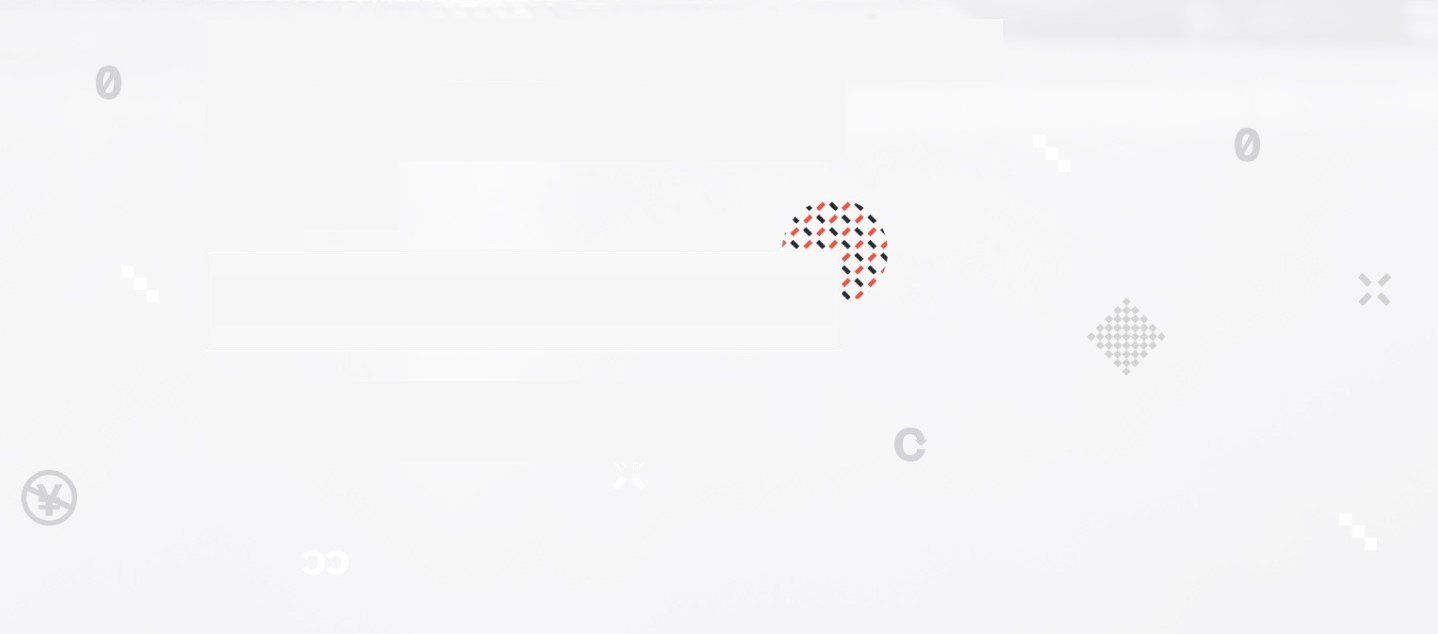
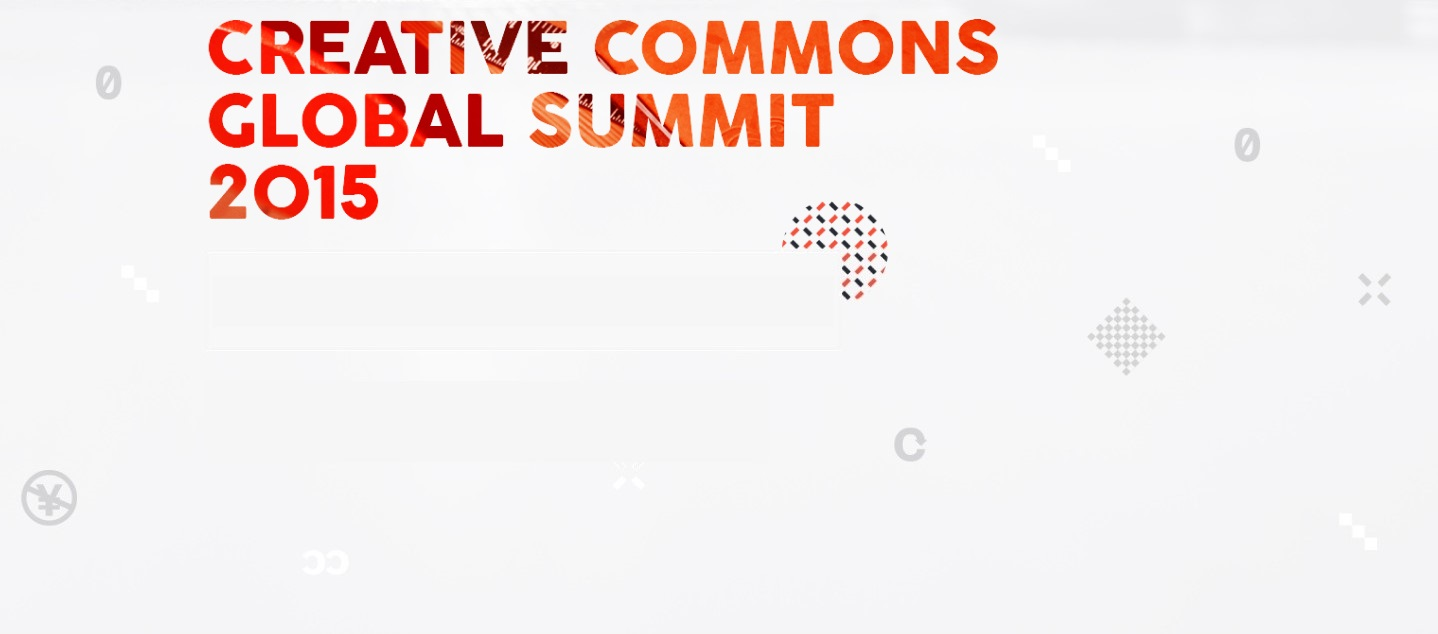
Fixing errors required by review.

Changed region(s): [[0.1224, 0.03, 0.7038, 0.3596]]

diff --git a/css/style.css b/css/style.css
@@ -131,7 +131,7 @@ ul {
 
 #hero-inferior-paraf {
   background: transparent;
-  padding: 0 7vw 4vw 7vw;
+  padding: 38vw 7vw 4vw 7vw;
   margin: 0;
   text-align: start;
   color: #868686;
@@ -398,7 +398,7 @@ ul {
   display: flex;
   flex-direction: column;
   align-items: center;
-  justify-content: space-between;
+  justify-content: flex-start;
 }
 
 .mobile-menu-button-close {
@@ -417,6 +417,7 @@ ul {
   aspect-ratio: 251 / 24;
   width: 90%;
   color: red;
+  margin: 1vw 0 4vw 0;
   font-weight: lighter;
   font-size: 6vw;
   line-height: 5vw;
@@ -469,7 +470,7 @@ ul {
     background: transparent;
     padding: 0;
     margin: 0;
-    margin-left: 71%;
+    margin-left: 69%;
     display: flex;
     flex-direction: row;
     align-items: center;
@@ -479,9 +480,16 @@ ul {
 
   #nav-banner-list > li {
     color: white;
+    margin: 0.25vw;
+    padding: 0 0.5vw 0 0.5vw;
     font-weight: 300;
     font-size: 1.15vw;
     line-height: 112%;
+    white-space: nowrap;
+  }
+
+  #nav-banner-list > li:nth-child(2) {
+    height: 1.3vw;
   }
 
   #icon-face {
@@ -595,13 +603,18 @@ ul {
     font-size: 1.05vw;
   }
 
+  #navigation-list > li:nth-child(1) > a {
+    color: #f07f7e;
+    font-size: 1.05vw;
+  }
+
   #navigation-cccampaing {
     height: 70%;
-    padding: 0 2vw 0 2vw;
+    padding: 0.1vw 2vw 0 2vw;
     margin: 0 0 0 5vw;
-    border: 0.3vw solid green;
+    border: 0.3vw solid red;
     text-align: center;
-    color: green;
+    color: #f07f7e;
     font-weight: 700;
     font-size: 1vw;
     line-height: 270%;
@@ -673,7 +686,7 @@ ul {
 
   #hero-inferior-paraf {
     background: transparent;
-    padding: 6.7vw 44vw 0 15vw;
+    padding: 17.7vw 44vw 0 15vw;
     margin: 0;
     text-align: start;
     color: #868686;
@@ -748,7 +761,7 @@ ul {
     margin: 0.15vw;
     display: flex;
     flex-direction: column;
-    justify-content: space-between;
+    justify-content: flex-start;
     align-items: center;
     background: #3b3e45;
     mix-blend-mode: color-dodge;
@@ -781,7 +794,7 @@ ul {
     mix-blend-mode: color-dodge;
     cursor: pointer;
     transform: scale(1.05);
-    border-radius: 1vw;
+    border: 0.15vw solid white
   }
 
   #footer > img {
@@ -812,8 +825,8 @@ ul {
 
   #program-list > li > h5 {
     text-align: center;
-    color: #ff4f38;
-    margin: 0;
+    color: #ff5438;
+    margin: 1vw 0 1vw 0;
     font-weight: 600;
     font-size: 1.6vw;
     line-height: 1vw;
@@ -829,7 +842,6 @@ ul {
     font-size: 1vw;
     line-height: 1.9vw;
     border: none;
-    margin-bottom: 1.9vw;
   }
 
   #program-end {
@@ -839,8 +851,10 @@ ul {
     margin: 0;
     text-align: center;
     color: white;
-    font-weight: 600;
-    font-size: 1.35vw;
+    text-decoration: underline;
+    text-underline-offset: 0.3vw;
+    font-weight: 100;
+    font-size: 1vw;
     line-height: 1vw;
     border: none;
     display: block;

diff --git a/index.html b/index.html
@@ -26,6 +26,7 @@
         <div id="navigation">
           <a id="navigation-logo" href="index.html"></a>
           <ul id="navigation-list">
+            <li id="nav-navigation-list-item"><a href="index.html">Home</a></li>
             <li id="nav-navigation-list-item"><a href="about.html">About</a></li>
             <li id="nav-navigation-list-item"><a href="index.html">Program</a></li>
             <li id="nav-navigation-list-item"><a href="index.html">Join</a></li>
@@ -43,7 +44,6 @@
           <h2 id="hero-superior-title">"Hello! Sharing world"</h2>
         </div>
         <div id="hero-inferior">
-          <h2 id="hero-inferior-title">CREATIVE COMMONS GLOBAL SUMMIT 2015</h2>
           <p id="hero-inferior-paraf">A joyful celebration believing in the value of openness and sharing, creating a positive change with people from over 80 countries is taking place in October, in Korea.</p>
           <h4 id="hero-inferior-date">2015.10.15(THU)-16(FRI)</h4>
           <h5 id="hero-inferior-mention">@ National Museum of Korea, Art Center Nabiand more</h5>
@@ -107,13 +107,13 @@
       </section>
 
       <!-- footer -->
-      <section id="footer">
+      <footer id="footer">
         <img src="images/cck-logo1 1.png">
         <div id="footer-section">
           <h6>2015 Creative Commons Korea. Some Rights Reserved.</h6>
           <h6>달리 정하지 않은 웹사이트의 모든 내용은 크리에이티브 커먼즈 저작자표시 2.0 대한민국 라이선스에 따라 이용할 수 있습니다. 자세한 이용기능 내용과 허락조건은 http://creativecommons.org/licences/by/2.0/kr 를 보세요.</h6>
         </div>
-      </section>
+      </footer>
 
     <!-- end of container -->
     </div>

diff --git a/css/style2.css b/css/style2.css
@@ -339,7 +339,7 @@ ul {
   display: flex;
   flex-direction: column;
   align-items: center;
-  justify-content: space-between;
+  justify-content: flex-start;
 }
 
 .mobile-menu-button-close {
@@ -358,6 +358,7 @@ ul {
   aspect-ratio: 251 / 24;
   width: 90%;
   color: red;
+  margin: 1vw 0 4vw 0;
   font-weight: lighter;
   font-size: 6vw;
   line-height: 5vw;
@@ -407,7 +408,7 @@ ul {
     background: transparent;
     padding: 0;
     margin: 0;
-    margin-left: 71%;
+    margin-left: 69%;
     display: flex;
     flex-direction: row;
     align-items: center;
@@ -417,9 +418,16 @@ ul {
 
   #nav-banner-list > li {
     color: white;
+    margin: 0.25vw;
+    padding: 0 0.5vw 0 0.5vw;
     font-weight: 300;
     font-size: 1.15vw;
     line-height: 112%;
+    white-space: nowrap;
+  }
+
+  #nav-banner-list > li:nth-child(2) {
+    height: 1.3vw;
   }
 
   #icon-face {
@@ -528,7 +536,7 @@ ul {
     text-decoration: none;
   }
 
-  #navigation-list > li:nth-child(1) > a {
+  #navigation-list > li:nth-child(2) > a {
     color: #f07f7e;
     font-size: 1.05vw;
   }
@@ -540,11 +548,11 @@ ul {
 
   #navigation-cccampaing {
     height: 70%;
-    padding: 0 2vw 0 2vw;
+    padding: 0.1vw 2vw 0 2vw;
     margin: 0 0 0 5vw;
-    border: 0.3vw solid green;
+    border: 0.3vw solid red;
     text-align: center;
-    color: green;
+    color: #f07f7e;
     font-weight: 700;
     font-size: 1vw;
     line-height: 270%;

diff --git a/js/about.js b/js/about.js
@@ -27,19 +27,17 @@ function createMenu() {
   button.onclick = function name() { restoreView(); };
   menu.appendChild(button);
   const navbar = document.createElement('nav');
-  const buttonPortfolio = document.createElement('button');
+  const buttonIndex = document.createElement('button');
   const buttonAbout = document.createElement('button');
-  const buttonContact = document.createElement('button');
   navbar.setAttribute('class', 'mobile-menu-navbar');
-  buttonPortfolio.setAttribute('class', 'mobile-menu-buttons');
+  buttonIndex.setAttribute('class', 'mobile-menu-buttons');
   buttonAbout.setAttribute('class', 'mobile-menu-buttons');
-  buttonContact.setAttribute('class', 'mobile-menu-buttons');
-  buttonPortfolio.appendChild(document.createTextNode('Program'));
-  buttonAbout.appendChild(document.createTextNode('Schedule'));
-  buttonContact.appendChild(document.createTextNode('Tickets'));
-  navbar.appendChild(buttonPortfolio);
+  buttonIndex.appendChild(document.createTextNode('Index'));
+  buttonAbout.appendChild(document.createTextNode('About'));
+  buttonIndex.onclick = function name() { restoreView(); location.href = "index.html"; };
+  buttonAbout.onclick = function name() { restoreView(); location.href = "about.html"; };
+  navbar.appendChild(buttonIndex);
   navbar.appendChild(buttonAbout);
-  navbar.appendChild(buttonContact);
   menu.appendChild(navbar);
   return menu;
 }

diff --git a/js/index.js b/js/index.js
@@ -24,19 +24,17 @@ function createMenu() {
   button.onclick = function name() { restoreView(); };
   menu.appendChild(button);
   const navbar = document.createElement('nav');
-  const buttonPortfolio = document.createElement('button');
+  const buttonIndex = document.createElement('button');
   const buttonAbout = document.createElement('button');
-  const buttonContact = document.createElement('button');
   navbar.setAttribute('class', 'mobile-menu-navbar');
-  buttonPortfolio.setAttribute('class', 'mobile-menu-buttons');
+  buttonIndex.setAttribute('class', 'mobile-menu-buttons');
   buttonAbout.setAttribute('class', 'mobile-menu-buttons');
-  buttonContact.setAttribute('class', 'mobile-menu-buttons');
-  buttonPortfolio.appendChild(document.createTextNode('Program'));
-  buttonAbout.appendChild(document.createTextNode('Schedule'));
-  buttonContact.appendChild(document.createTextNode('Tickets'));
-  navbar.appendChild(buttonPortfolio);
+  buttonIndex.appendChild(document.createTextNode('Index'));
+  buttonAbout.appendChild(document.createTextNode('About'));
+  buttonIndex.onclick = function name() { restoreView(); location.href = "index.html"; };
+  buttonAbout.onclick = function name() { restoreView(); location.href = "about.html"; };
+  navbar.appendChild(buttonIndex);
   navbar.appendChild(buttonAbout);
-  navbar.appendChild(buttonContact);
   menu.appendChild(navbar);
   return menu;
 }

diff --git a/about.html b/about.html
@@ -26,6 +26,7 @@
         <div id="navigation">
           <a id="navigation-logo" href="index.html"></a>
           <ul id="navigation-list">
+            <li id="nav-navigation-list-item"><a href="index.html">Home</a></li>
             <li id="nav-navigation-list-item"><a href="about.html">About</a></li>
             <li id="nav-navigation-list-item"><a href="index.html">Program</a></li>
             <li id="nav-navigation-list-item"><a href="index.html">Join</a></li>
@@ -76,13 +77,13 @@
       </section>
 
       <!-- footer -->
-      <section id="footer">
+      <footer id="footer">
         <img src="images/cck-logo1 1.png">
         <div id="footer-section">
           <h6>2015 Creative Commons Korea. Some Rights Reserved.</h6>
           <h6>달리 정하지 않은 웹사이트의 모든 내용은 크리에이티브 커먼즈 저작자표시 2.0 대한민국 라이선스에 따라 이용할 수 있습니다. 자세한 이용기능 내용과 허락조건은 http://creativecommons.org/licences/by/2.0/kr 를 보세요.</h6>
         </div>
-      </section>
+      </footer>
 
     <!-- end of container -->
     </div>
